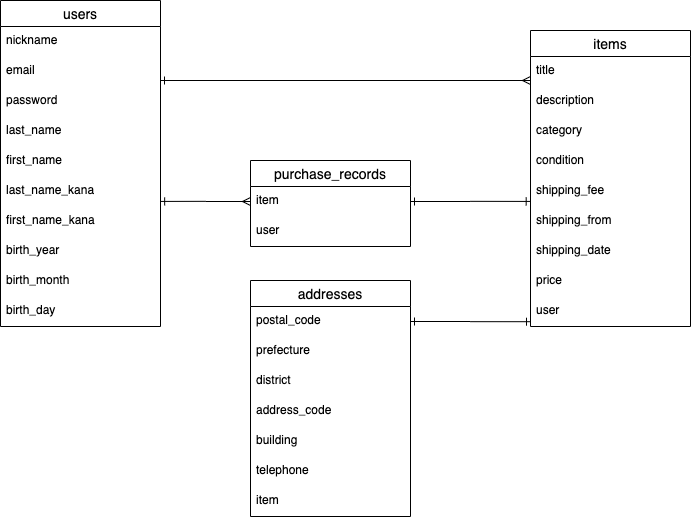
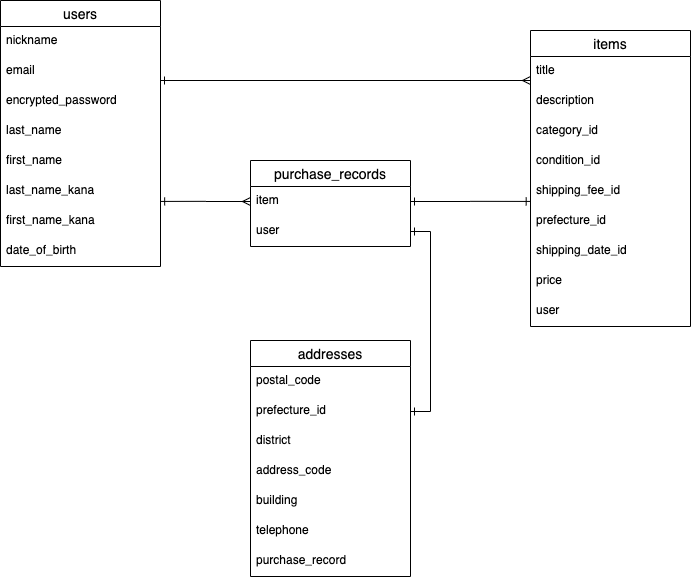
レビューを受けての修正

diff --git a/README.md b/README.md
@@ -2,18 +2,16 @@
 
 ## users テーブル
 
-| Column          | Type    | Options                   |
-| --------------- | ------- | ------------------------- |
-| nickname        | string  | null: false               |
-| email           | string  | null: false, unique: true |
-| password        | string  | null: false               |
-| last_name       | string  | null: false               |
-| first_name      | string  | null: false               |
-| last_name_kana  | string  | null: false               |
-| first_name_kana | string  | null: false               |
-| birth_year      | integer | null: false               |
-| birth_month     | integer | null: false               |
-| birth_day       | integer | null: false               |
+| Column             | Type    | Options                   |
+| ------------------ | ------- | ------------------------- |
+| nickname           | string  | null: false               |
+| email              | string  | null: false, unique: true |
+| encrypted_password | string  | null: false               |
+| last_name          | string  | null: false               |
+| first_name         | string  | null: false               |
+| last_name_kana     | string  | null: false               |
+| first_name_kana    | string  | null: false               |
+| date_of_birth      | date    | null: false               |
 
 ### Association
 
@@ -22,23 +20,22 @@
 
 ## items テーブル
 
-| Column        | Type       | Options                        |
-| ------------- | ---------- | ------------------------------ |
-| title         | string     | null: false                    |
-| description   | text       | null: false                    |
-| category      | integer    | null: false                    |
-| condition     | integer    | null: false                    |
-| shipping_fee  | integer    | null: false                    |
-| shipping_from | integer    | null: false                    |
-| shipping_date | integer    | null: false                    |
-| price         | integer    | null: false                    |
-| user          | references | null: false, foreign_key: true |
+| Column           | Type       | Options                        |
+| ---------------- | ---------- | ------------------------------ |
+| title            | string     | null: false                    |
+| description      | text       | null: false                    |
+| category_id      | integer    | null: false                    |
+| condition_id     | integer    | null: false                    |
+| shipping_fee_id  | integer    | null: false                    |
+| prefecture_id    | integer    | null: false                    |
+| shipping_date_id | integer    | null: false                    |
+| price            | integer    | null: false                    |
+| user             | references | null: false, foreign_key: true |
 
 ### Association
 
 - belongs_to :user
 - has_one :purchase_record
-- has_one :address
 
 ## purchase_records テーブル
 
@@ -51,19 +48,20 @@
 
 - belongs_to :item
 - belongs_to :user
+- has_one :address
 
 ## addresses テーブル
 
-| Column       | Type       | Options                        |
-| ------------ | ---------- | ------------------------------ |
-| postal_code  | string     | null: false                    |
-| prefecture   | integer    | null: false                    |
-| district     | string     | null: false                    |
-| address_code | string     | null: false                    |
-| building     | string     |                                |
-| telephone    | string     | null: false                    |
-| item         | references | null: false, foreign_key: true |
+| Column          | Type       | Options                        |
+| --------------- | ---------- | ------------------------------ |
+| postal_code     | string     | null: false                    |
+| prefecture_id   | integer    | null: false                    |
+| district        | string     | null: false                    |
+| address_code    | string     | null: false                    |
+| building        | string     |                                |
+| telephone       | string     | null: false                    |
+| purchase_record | references | null: false, foreign_key: true |
 
 ### Association
 
-- belongs_to :item
+- belongs_to :purchase_record
